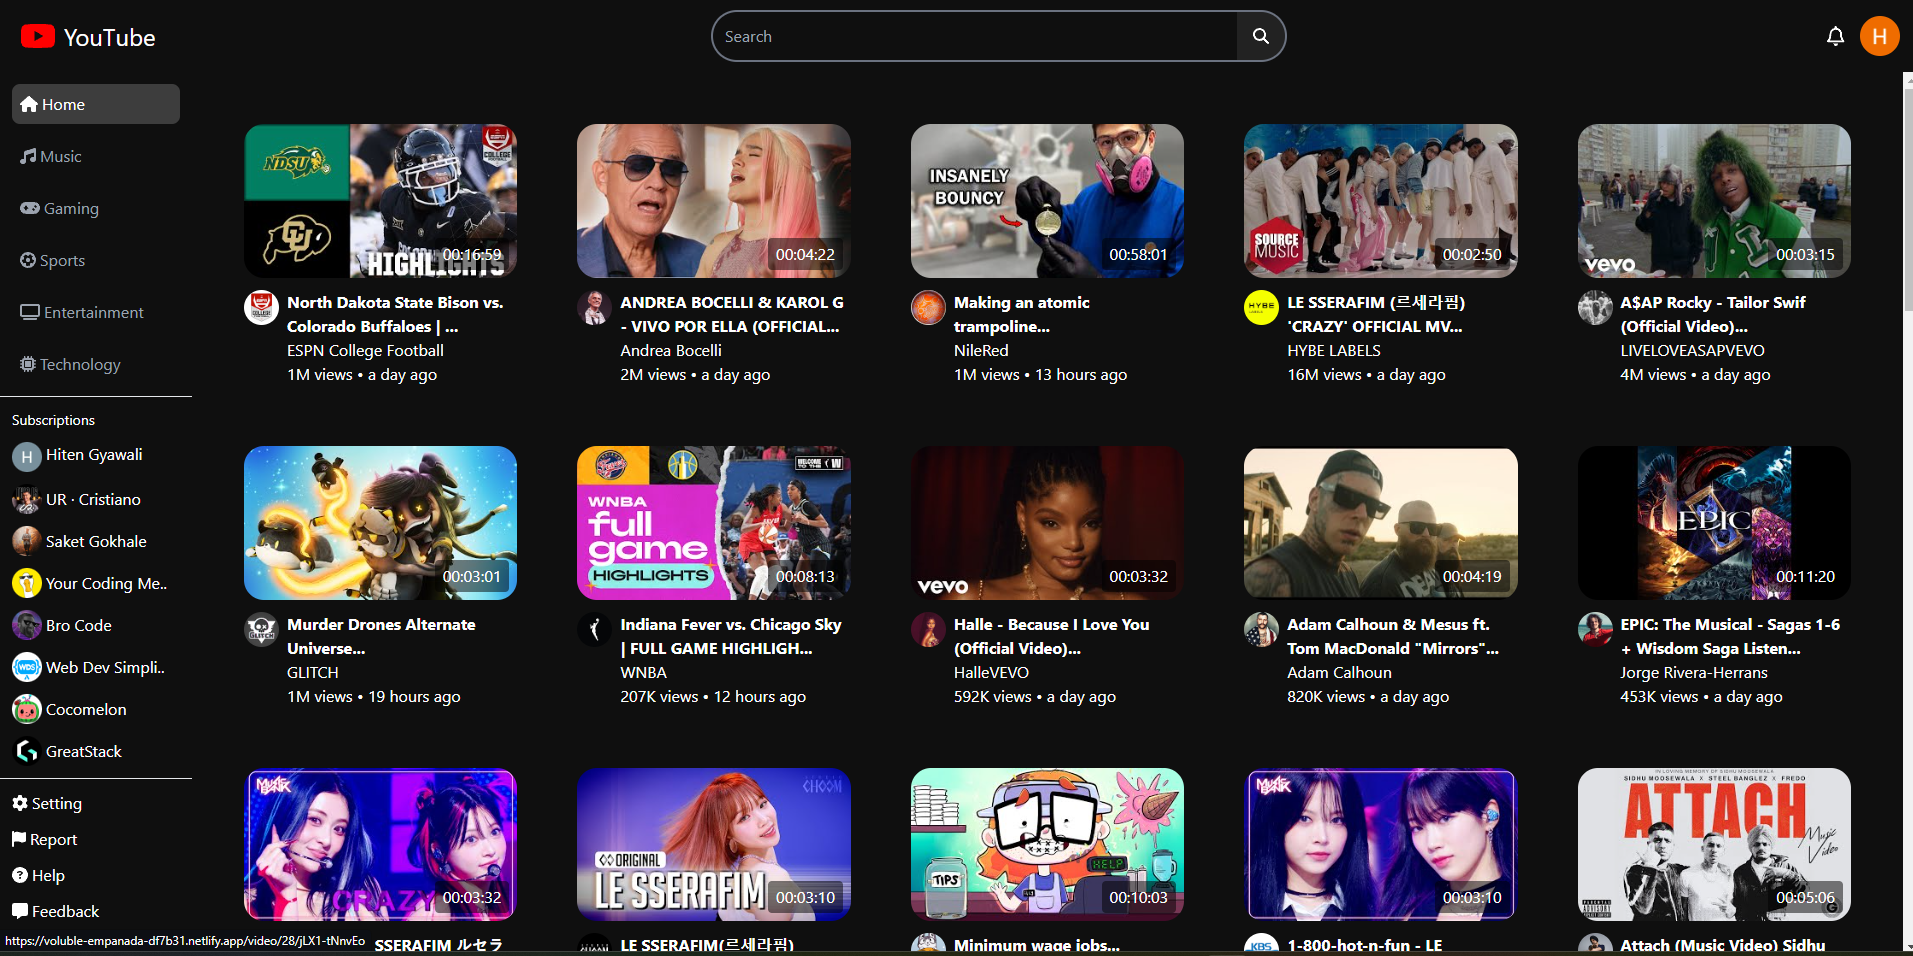
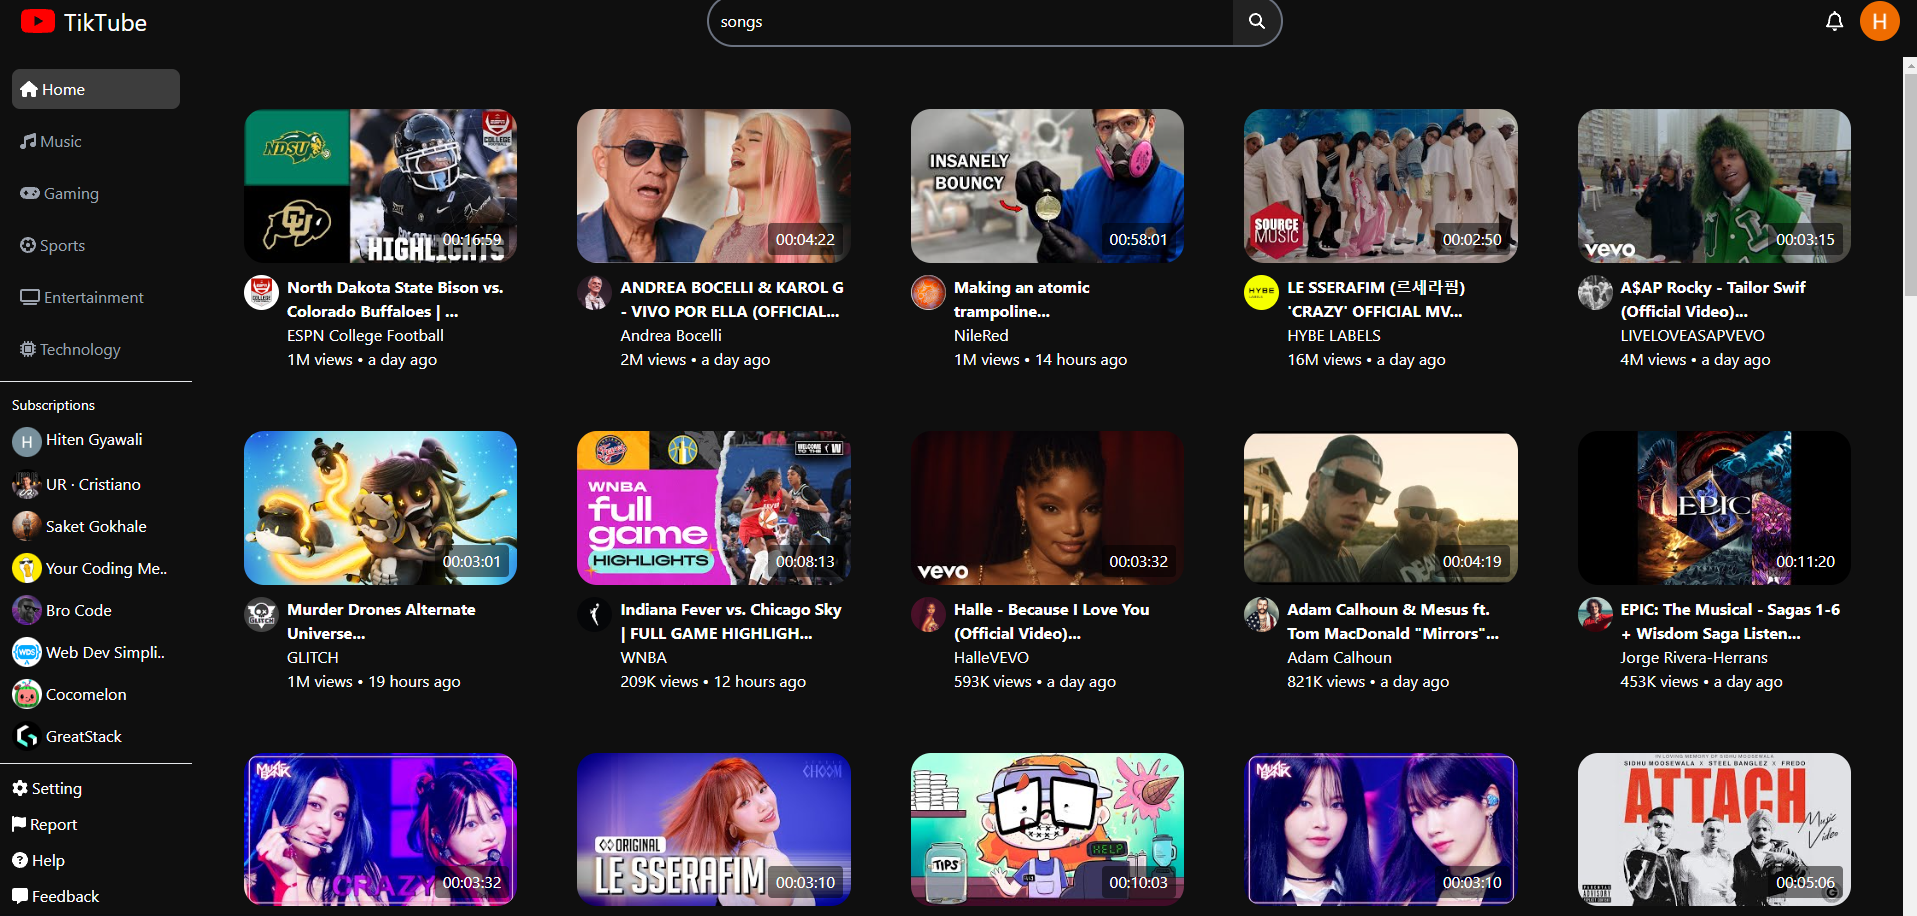
some update done open to issue

diff --git a/src/Page/Navbar.jsx b/src/Page/Navbar.jsx
@@ -23,7 +23,7 @@ export default function Navbar() {
                 <Link to="/">
                     <div className='flex items-center gap-2 m-2 md:m-4'>
                         <FontAwesomeIcon icon={faYoutube} size="2x" color="red" />
-                        <p className='text-lg md:text-2xl'>YouTube</p>
+                        <p className='text-lg md:text-2xl'>TikTube</p>
                     </div>
                 </Link>
                 <div className='flex items-center gap-1 border-gray-500 border-2 rounded-full overflow-hidden w-4/5 sm:w-2/3 md:w-[40vw] lg:w-[30vw]'>
